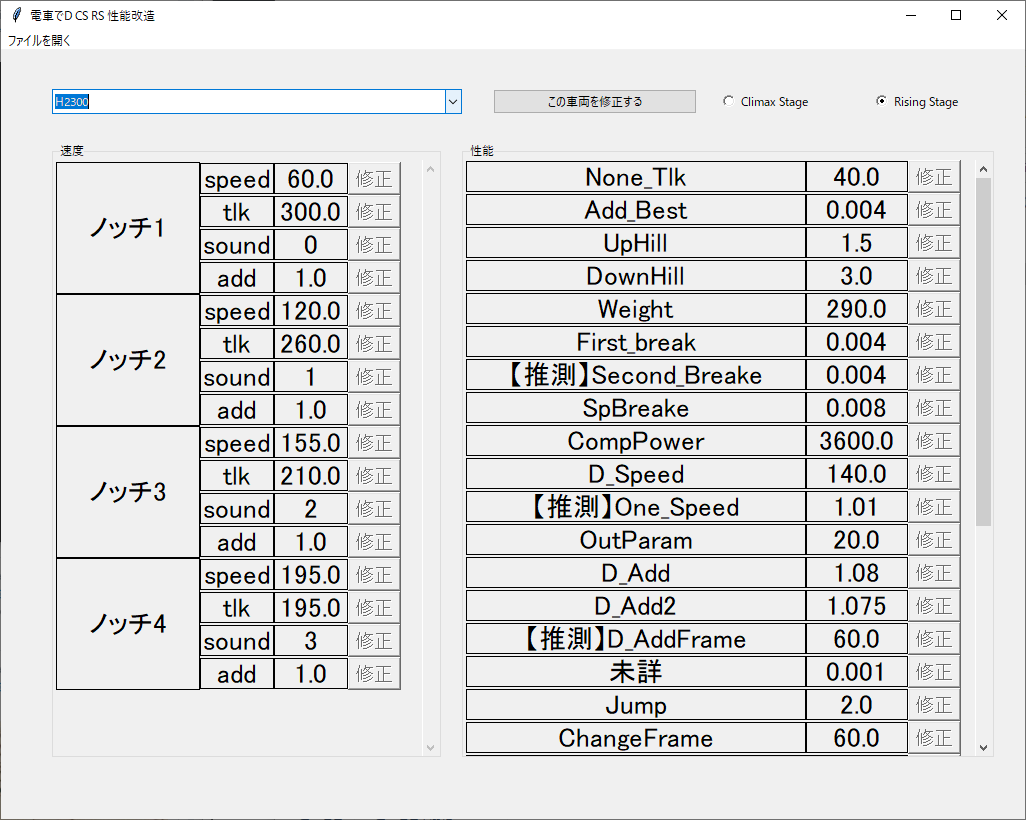
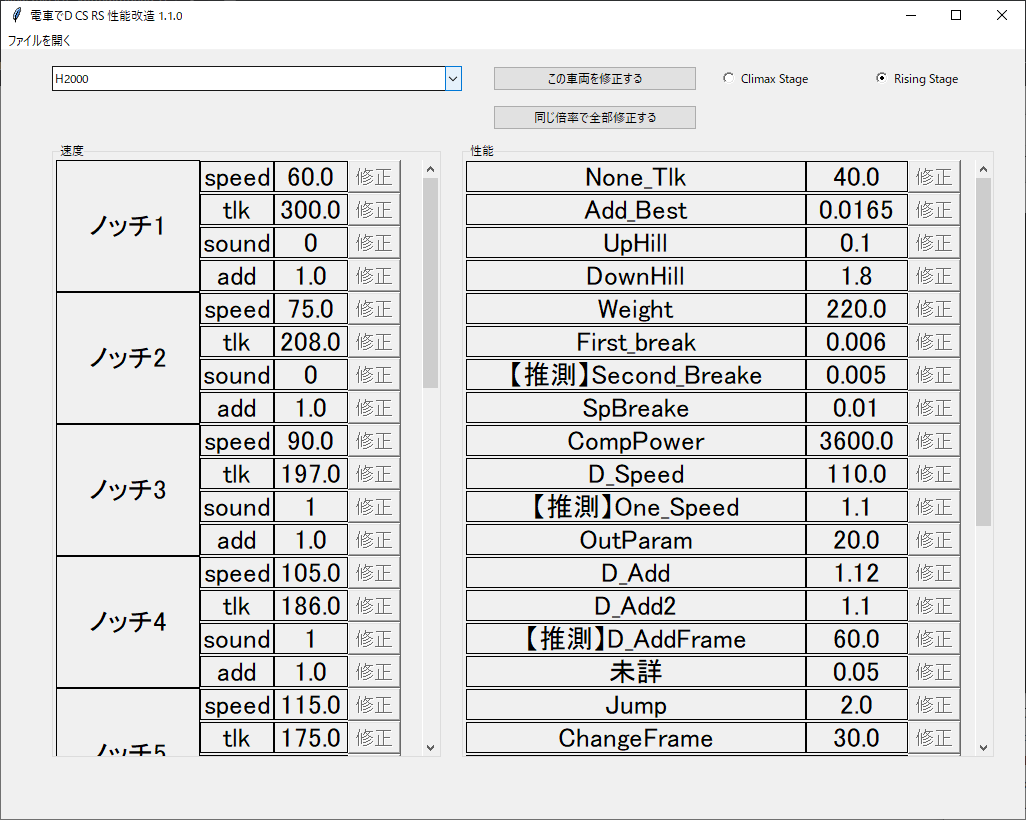
タイトル修正

diff --git a/editor.py b/editor.py
@@ -676,7 +676,7 @@ def selectGame():
     v_edit.set("この車両を修正する")
         
 root = Tk()
-root.title("電車でD CS RS 性能改造")
+root.title("電車でD CS RS 性能改造 1.1.0")
 root.geometry("1024x768")
 
 menubar = Menu(root)
